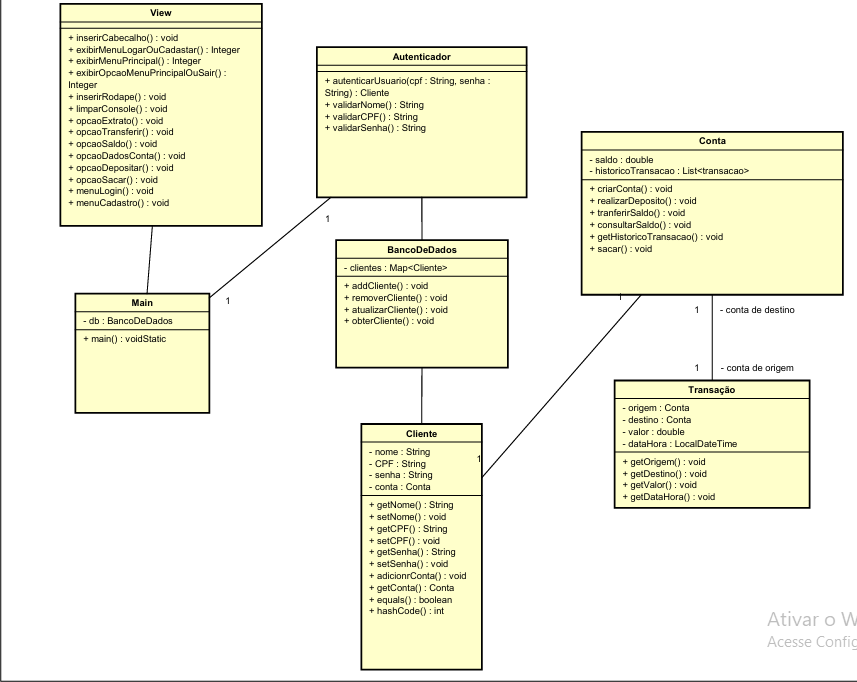
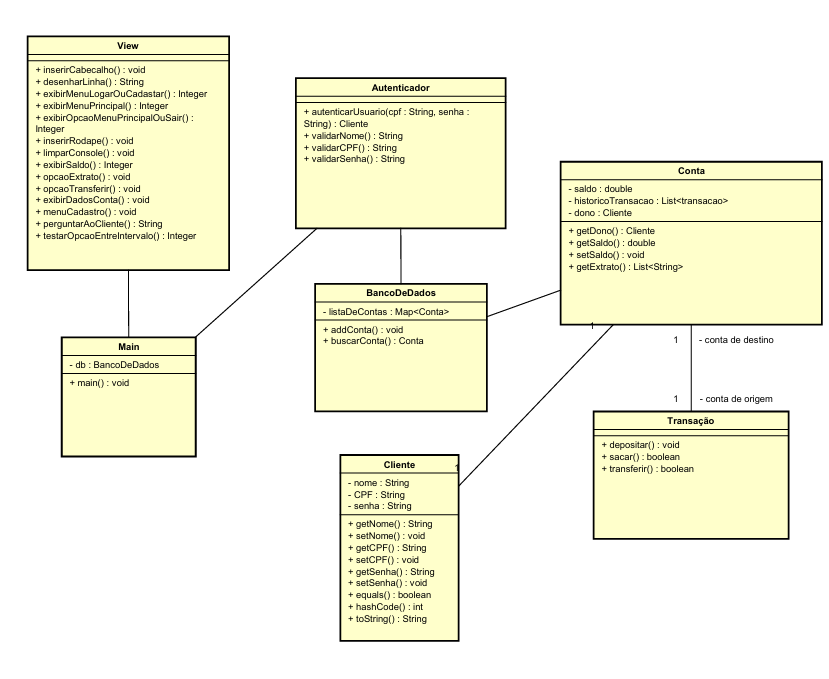
Alteração de diagrama

diff --git a/src/model/Cliente.java b/src/model/Cliente.java
@@ -42,16 +42,6 @@ public class Cliente {
     }
 
 
-
-    //Autenticacao de Usuario. Caso aconteça algum erro será lançado a excecao ErroAutenticacao.
-    public void autenticarUsuario (String CPF, String senha) throws ErroAutenticacaoLogin {
-        String cpfFormatado = CPF.replaceAll("[^\\d]", "");
-        if (this.CPF.equals(cpfFormatado) && this.senha.equals(senha)) {
-            System.out.println("Usuario autenticado com sucesso.");
-        } else {
-            throw new ErroAutenticacaoLogin("Usuário ou senha incorreto.");
-        }
-    }
     //SOBREESCRITA DO METODO EQUALS PARA QUE OS CLIENTES POSSAM SER COMPARADOS POR MEIO DO CPF
     @Override
     public boolean equals (Object obj) {
